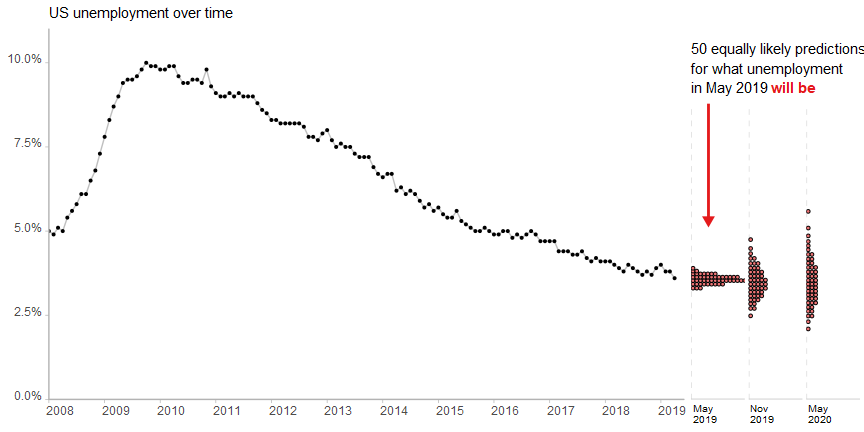
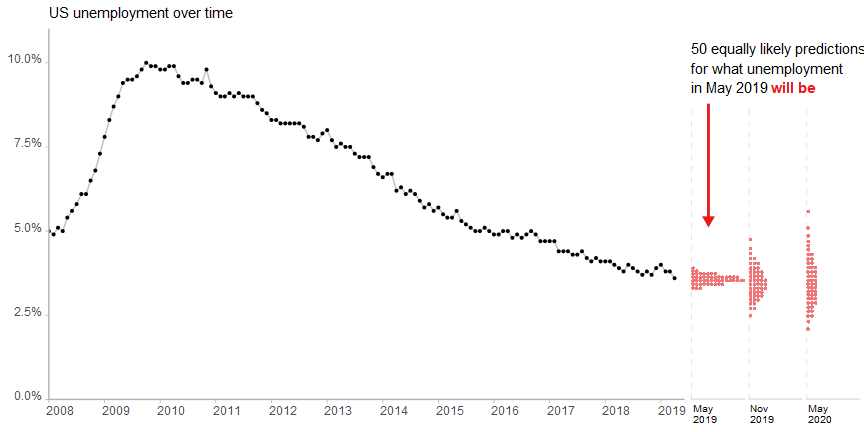
more unemployment tweaks

Changed region(s): [[0.7812, 0.5417, 0.9688, 0.7523]]

diff --git a/us-unemployment.md b/us-unemployment.md
@@ -103,25 +103,25 @@ m = with(df, bsts(logit_unemployment, state.specification = list() %>%
   niter = 10000))
 ```
 
-    ## =-=-=-=-= Iteration 0 Tue Jun 04 16:29:14 2019
+    ## =-=-=-=-= Iteration 0 Tue Jun 04 16:37:35 2019
     ##  =-=-=-=-=
-    ## =-=-=-=-= Iteration 1000 Tue Jun 04 16:29:27 2019
+    ## =-=-=-=-= Iteration 1000 Tue Jun 04 16:37:49 2019
     ##  =-=-=-=-=
-    ## =-=-=-=-= Iteration 2000 Tue Jun 04 16:29:40 2019
+    ## =-=-=-=-= Iteration 2000 Tue Jun 04 16:38:03 2019
     ##  =-=-=-=-=
-    ## =-=-=-=-= Iteration 3000 Tue Jun 04 16:29:53 2019
+    ## =-=-=-=-= Iteration 3000 Tue Jun 04 16:38:17 2019
     ##  =-=-=-=-=
-    ## =-=-=-=-= Iteration 4000 Tue Jun 04 16:30:06 2019
+    ## =-=-=-=-= Iteration 4000 Tue Jun 04 16:38:30 2019
     ##  =-=-=-=-=
-    ## =-=-=-=-= Iteration 5000 Tue Jun 04 16:30:19 2019
+    ## =-=-=-=-= Iteration 5000 Tue Jun 04 16:38:42 2019
     ##  =-=-=-=-=
-    ## =-=-=-=-= Iteration 6000 Tue Jun 04 16:30:33 2019
+    ## =-=-=-=-= Iteration 6000 Tue Jun 04 16:38:55 2019
     ##  =-=-=-=-=
-    ## =-=-=-=-= Iteration 7000 Tue Jun 04 16:30:46 2019
+    ## =-=-=-=-= Iteration 7000 Tue Jun 04 16:39:08 2019
     ##  =-=-=-=-=
-    ## =-=-=-=-= Iteration 8000 Tue Jun 04 16:31:01 2019
+    ## =-=-=-=-= Iteration 8000 Tue Jun 04 16:39:22 2019
     ##  =-=-=-=-=
-    ## =-=-=-=-= Iteration 9000 Tue Jun 04 16:31:14 2019
+    ## =-=-=-=-= Iteration 9000 Tue Jun 04 16:39:35 2019
     ##  =-=-=-=-=
 
 ## Spaghetti plot
@@ -668,7 +668,7 @@ predict_plot = predictions %>%
   do(tibble(.prediction = quantile(.$.prediction, ppoints(50)))) %>%
   ggplot(aes(x = .prediction)) +
   geom_hline(yintercept = 0, color = "gray85", linetype = "dashed") +
-  geom_dotplot(fill = prediction_color_fill, size = NA, binwidth = .001, dotsize = 1.1) +
+  geom_dotplot(fill = prediction_color_fill, color = NA, binwidth = .001, dotsize = 1.1) +
   ylab(NULL) +
   xlab(NULL) +
   scale_y_continuous(breaks = NULL) +
@@ -676,11 +676,7 @@ predict_plot = predictions %>%
   coord_flip(xlim = c(0, y_max), expand = FALSE) +
   facet_grid(. ~ date, labeller = labeller(date = function(x) strftime(x, "%b\n%Y")), switch = "x", scales = "free_x") +
   facet_x_labels
-```
 
-    ## Warning: Ignoring unknown parameters: size
-
-``` r
 plot_grid(align = "h", axis = "tb", ncol = 2, rel_widths = c(4, 1),
     fit_plot,
     predict_plot
